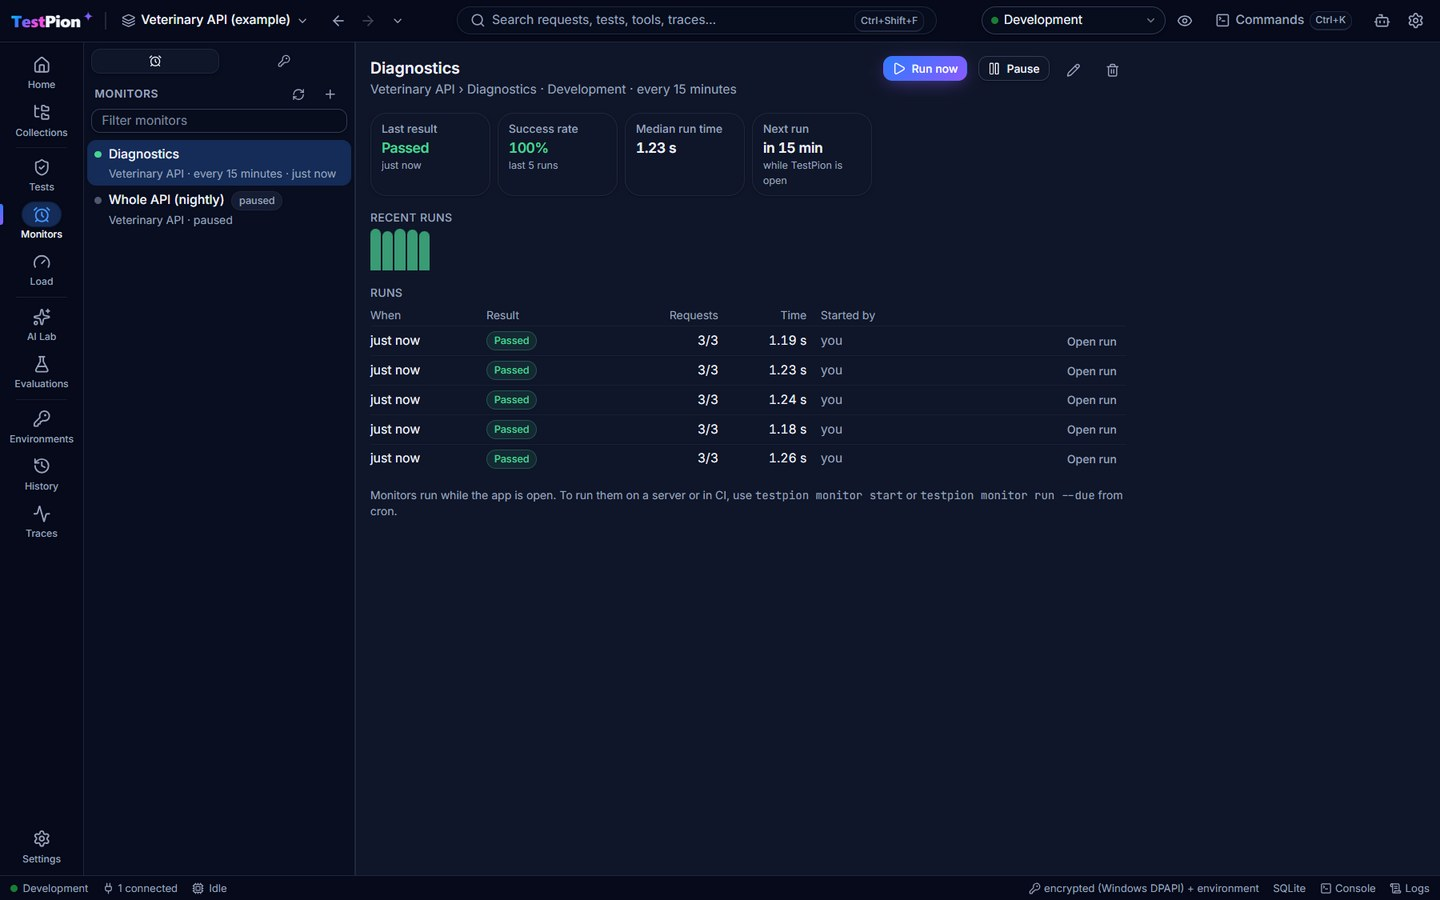
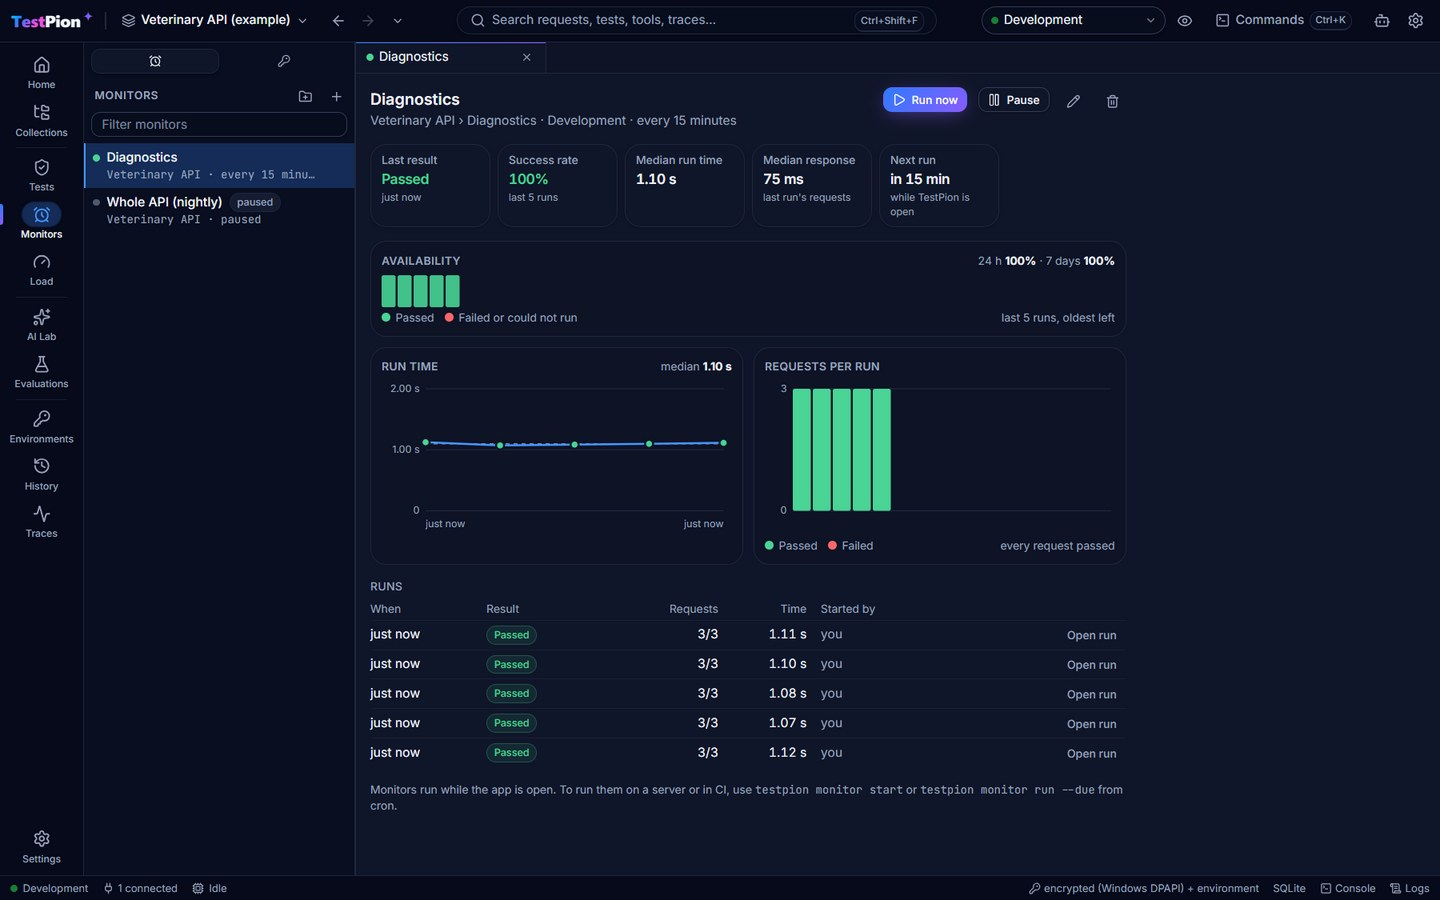
Release v0.21.0: monitors in tabs, monitor charts

diff --git a/packages/core/src/version.ts b/packages/core/src/version.ts
@@ -1,2 +1,2 @@
 /** TestPion's version (the engine, CLI and app are released together). */
-export const ENGINE_VERSION = '0.20.4';
+export const ENGINE_VERSION = '0.21.0';

diff --git a/CHANGELOG.md b/CHANGELOG.md
@@ -1,5 +1,12 @@
 # Changelog
 
+## 0.21.0 — 2026-10-01
+
+Highlights: monitors open in tabs and show charts.
+
+- **Monitors in tabs**: opening a monitor (list, menu, link) gives it its own tab, like requests; open several and run them side by side (each tab keeps its own runs and running state, and runs started together go in parallel). Middle-click or ✕ closes a tab; its right-click menu has *Run now*, *Close tab*, *Close other tabs* and *Close all tabs*. Open tabs are remembered.
+- **Monitor charts**: *Availability* (one block per run, oldest left, like a status page, with uptime over the last 24 hours and 7 days), *Run time* (a line over the last runs with each point coloured by its result and the median dashed) and *Requests per run* (passed and failed stacked). Hover any chart for that run's result, requests, time and date. A *Median response* tile joins the summary.
+
 ## 0.20.4 — 2026-09-30
 
 - **Monitors in folders**: the monitor list works like every other saved list: a new-folder button and **+** in its header, folders (drag or *Move to folder…*), a filter, and menus to rename, duplicate, move or delete a monitor or folder, plus *Edit*, *Run now* and *Pause / Resume*. Monitors saved elsewhere (the CLI, an AI agent) appear straight away.
